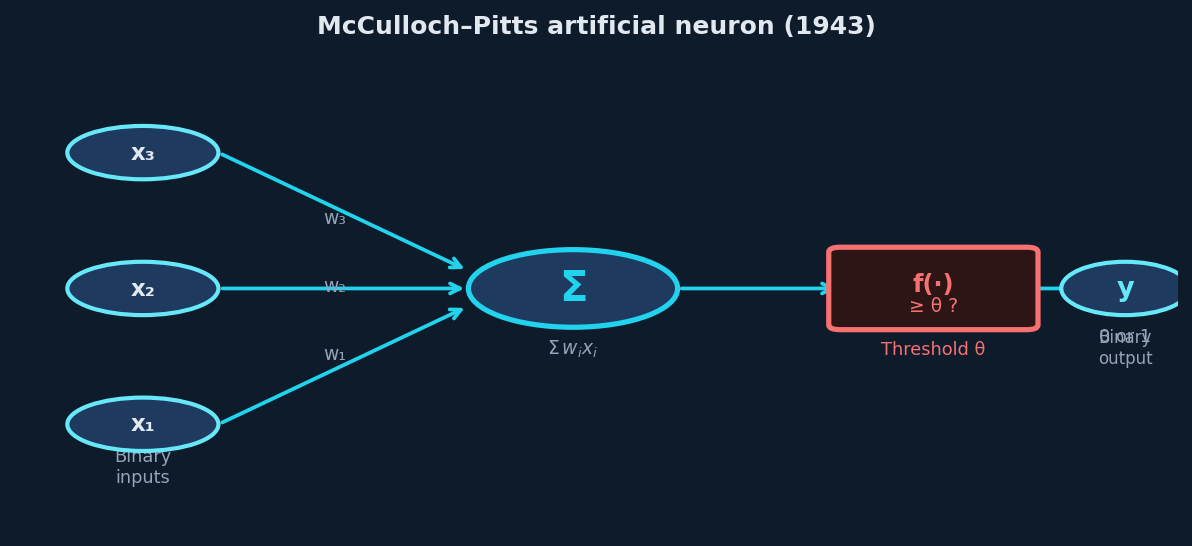
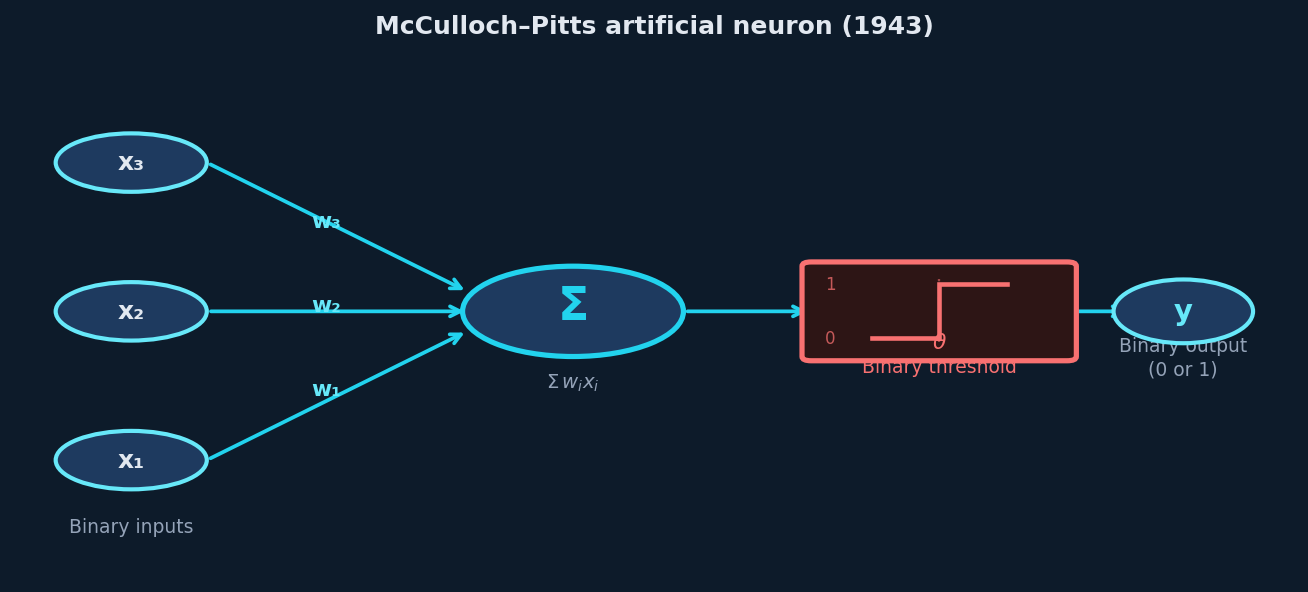
Improve MP artificial neuron figure and enlarge portrait
- Replace text threshold box with Heaviside step function (0/1 levels + θ)
- Weight labels now bright cyan, larger font, clearly readable
- Fix output node overlap: single combined 'Binary output (0 or 1)' label
- Widen figure to 11×4.6in for better proportions
- Portrait enlarged to 165px, positioned higher (top:0.2em)

Changed region(s): [[0.031, 0.2179, 0.9933, 0.9029], [0.2483, 0.0, 0.745, 0.0623]]

diff --git a/gen_neuron.py b/gen_neuron.py
@@ -66,60 +66,90 @@ plt.close(fig1)
 print("Saved bio_neuron_annotated.png")
 
 # ── Figure 2: McCulloch–Pitts artificial neuron ──────────────────────────────
-fig2, ax = plt.subplots(figsize=(10, 4.2), facecolor=BG)
+fig2, ax = plt.subplots(figsize=(11, 4.6), facecolor=BG)
 ax.set_facecolor(BG)
 ax.axis('off')
-ax.set_xlim(0, 10)
+ax.set_xlim(0, 11)
 ax.set_ylim(0, 10)
 
 sig_x, sig_y = 4.8, 5.0
 
+# Input nodes + weighted arrows
 for (lbl, ix, iy), wl in zip(
-        [('x₃', 1.1, 7.8), ('x₂', 1.1, 5.0), ('x₁', 1.1, 2.2)],
+        [('x₃', 1.0, 7.8), ('x₂', 1.0, 5.0), ('x₁', 1.0, 2.2)],
         ['w₃', 'w₂', 'w₁']):
     ax.add_patch(Ellipse((ix, iy), 1.3, 1.1,
                          facecolor=DARK, edgecolor=CYAN2, lw=2, zorder=4))
-    ax.text(ix, iy, lbl, color=WHITE, fontsize=11, ha='center', va='center',
+    ax.text(ix, iy, lbl, color=WHITE, fontsize=12, ha='center', va='center',
             fontweight='bold', zorder=5)
     ax.annotate('', xy=(sig_x - 0.90, sig_y + (iy - sig_y) * 0.13),
                 xytext=(ix + 0.65, iy),
                 arrowprops=dict(arrowstyle='->', color=CYAN, lw=1.8,
                                 mutation_scale=12), zorder=3)
-    ax.text((ix + sig_x) / 2 - 0.2, (iy + sig_y) / 2 + 0.05,
-            wl, color=GRAY, fontsize=9, ha='center', va='center')
+    # weight label — brighter and larger
+    mx = (ix + 0.65 + sig_x - 0.90) / 2 - 0.1
+    my = (iy + sig_y + (iy - sig_y) * 0.13) / 2 + 0.12
+    ax.text(mx, my, wl, color=CYAN2, fontsize=10.5, ha='center', va='center',
+            fontweight='bold')
 
-ax.text(1.1, 1.0, 'Binary\ninputs', color=GRAY, fontsize=8.5, ha='center')
+ax.text(1.0, 0.85, 'Binary inputs', color=GRAY, fontsize=9, ha='center')
 
-ax.add_patch(Ellipse((sig_x, sig_y), 1.8, 1.6,
+# Sigma node
+ax.add_patch(Ellipse((sig_x, sig_y), 1.9, 1.7,
                      facecolor=DARK, edgecolor=CYAN, lw=2.5, zorder=4))
-ax.text(sig_x, sig_y, 'Σ', color=CYAN, fontsize=20, ha='center', va='center',
+ax.text(sig_x, sig_y + 0.08, 'Σ', color=CYAN, fontsize=22, ha='center', va='center',
         fontweight='bold', zorder=5)
-ax.text(sig_x, sig_y - 1.35, r'$\Sigma\,w_i x_i$', color=GRAY,
-        fontsize=9, ha='center')
+ax.text(sig_x, sig_y - 1.45, r'$\Sigma\,w_i x_i$', color=GRAY,
+        fontsize=9.5, ha='center')
 
-ax.annotate('', xy=(7.1, sig_y), xytext=(sig_x + 0.90, sig_y),
+# Arrow sigma → threshold
+ax.annotate('', xy=(6.85, sig_y), xytext=(sig_x + 0.95, sig_y),
             arrowprops=dict(arrowstyle='->', color=CYAN, lw=1.8,
                             mutation_scale=12), zorder=3)
 
-ax.add_patch(FancyBboxPatch((7.1, sig_y - 0.75), 1.60, 1.50,
-                            boxstyle='round,pad=0.10',
+# Threshold box — draw a Heaviside step function inside instead of text
+bx0, bx1 = 6.85, 9.05
+by0, by1 = sig_y - 0.85, sig_y + 0.85
+ax.add_patch(FancyBboxPatch((bx0, by0), bx1 - bx0, by1 - by0,
+                            boxstyle='round,pad=0.08',
                             facecolor='#2d1515', edgecolor=RED, lw=2.5, zorder=4))
-ax.text(7.90, sig_y + 0.08, 'f(·)', color=RED, fontsize=11.5,
-        ha='center', va='center', fontweight='bold', zorder=5)
-ax.text(7.90, sig_y - 0.35, '≥ θ ?', color=RED, fontsize=9,
-        ha='center', va='center', zorder=5)
-ax.text(7.90, sig_y - 1.35, 'Threshold θ', color=RED, fontsize=8.5, ha='center')
 
-ax.annotate('', xy=(9.25, sig_y), xytext=(8.70, sig_y),
+# Heaviside step function drawn inside the box
+mid_x = (bx0 + bx1) / 2        # ≈ 7.95
+step_lo_y = sig_y - 0.50
+step_hi_y = sig_y + 0.52
+margin_x = 0.52
+# horizontal baseline → step → plateau
+sx = [bx0 + margin_x, mid_x, mid_x, bx1 - margin_x]
+sy_ = [step_lo_y,     step_lo_y, step_hi_y, step_hi_y]
+ax.plot(sx, sy_, color=RED, lw=2.2, solid_joinstyle='miter', zorder=6)
+# dashed vertical at θ
+ax.plot([mid_x, mid_x], [step_lo_y - 0.08, step_hi_y + 0.08],
+        color=RED, lw=1.1, linestyle='--', alpha=0.55, zorder=6)
+# θ label below the step
+ax.text(mid_x, by0 + 0.08, 'θ', color=RED, fontsize=10.5,
+        ha='center', va='bottom', fontstyle='italic', zorder=7)
+# "0" and "1" level markers
+ax.text(bx0 + 0.12, step_lo_y, '0', color=RED, fontsize=8, ha='left',
+        va='center', alpha=0.75, zorder=7)
+ax.text(bx0 + 0.12, step_hi_y, '1', color=RED, fontsize=8, ha='left',
+        va='center', alpha=0.75, zorder=7)
+
+ax.text((bx0 + bx1) / 2, by0 - 0.30, 'Binary threshold',
+        color=RED, fontsize=9, ha='center')
+
+# Arrow threshold → output
+ax.annotate('', xy=(9.60, sig_y), xytext=(bx1, sig_y),
             arrowprops=dict(arrowstyle='->', color=CYAN, lw=1.8,
                             mutation_scale=12), zorder=3)
 
-ax.add_patch(Circle((9.55, sig_y), 0.55,
+# Output node
+ax.add_patch(Circle((10.05, sig_y), 0.60,
                     facecolor=DARK, edgecolor=CYAN2, lw=2, zorder=4))
-ax.text(9.55, sig_y, 'y', color=CYAN2, fontsize=13, ha='center', va='center',
+ax.text(10.05, sig_y, 'y', color=CYAN2, fontsize=14, ha='center', va='center',
         fontweight='bold', zorder=5)
-ax.text(9.55, sig_y - 1.1, '0 or 1', color=GRAY, fontsize=8.5, ha='center')
-ax.text(9.55, sig_y - 1.55, 'Binary\noutput', color=GRAY, fontsize=8, ha='center')
+ax.text(10.05, sig_y - 1.20, 'Binary output\n(0 or 1)',
+        color=GRAY, fontsize=9, ha='center', linespacing=1.35)
 
 ax.set_title('McCulloch–Pitts artificial neuron (1943)',
              color=WHITE, fontsize=12, fontweight='bold', pad=6)
